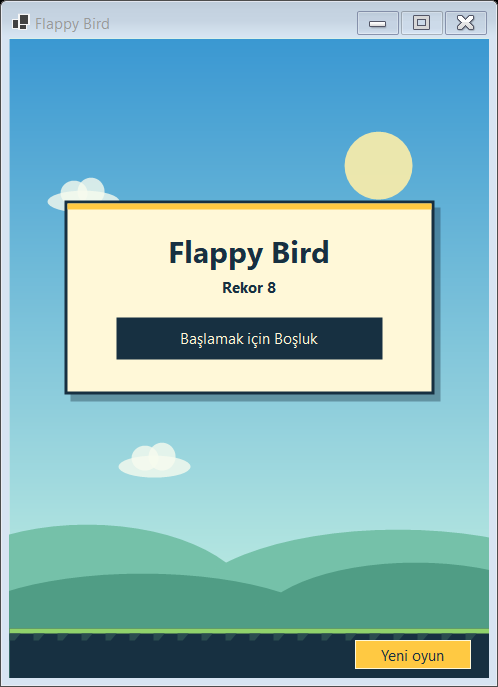
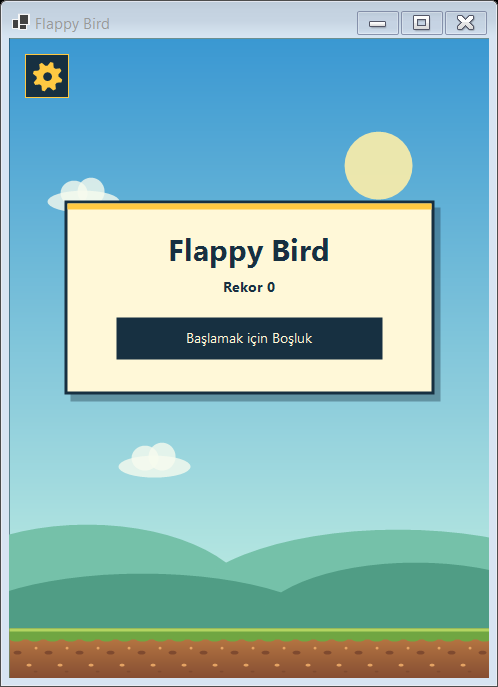
docs: update game menu instructions and screenshots

diff --git a/README.md b/README.md
@@ -22,7 +22,7 @@ dotnet run --project FlappyBird/FlappyBird.csproj
 
 - **Boşluk:** Oyunu başlatır veya kuşu yukarı iter. Her zıplama için tuşa yeniden basın. Game Over ekranında Boşluk yeni turu başlatır.
 - İki boru çifti sağdan sola ilerler. Ekrandan çıkan çift sağ tarafta yeni bir açıklıkla tekrar belirir.
-- **Yeni oyun:** Oyun durumunu ve skoru sıfırlar. Yeni turu Boşluk tuşuyla başlatabilirsiniz.
+- **Çark → Yeni oyun:** Sol üst köşedeki oyun menüsünden oyun durumunu ve skoru sıfırlar. Yeni turu Boşluk tuşuyla başlatabilirsiniz.
 
 Pencere oyun alanının 3:4 oranını koruyarak kenardan veya köşeden yeniden boyutlandırılabilir. Büyüt düğmesi pencereyi monitörün kullanılabilir alanına sığan en büyük boyuta getirir. Düğmeye tekrar basarak önceki boyuta dönebilirsiniz. Minimum oyun alanı 480 × 640 pikseldir.
 
